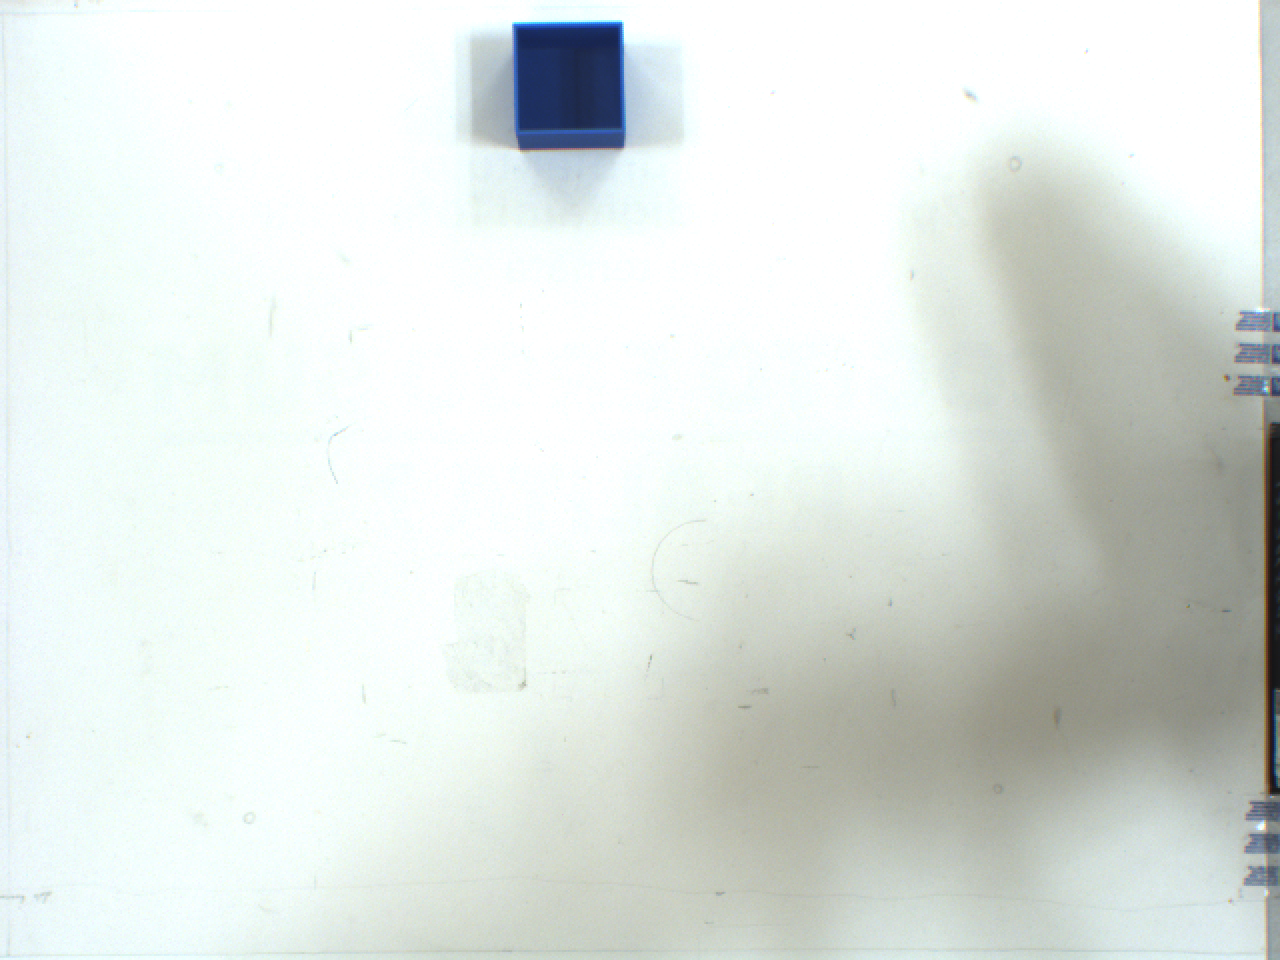
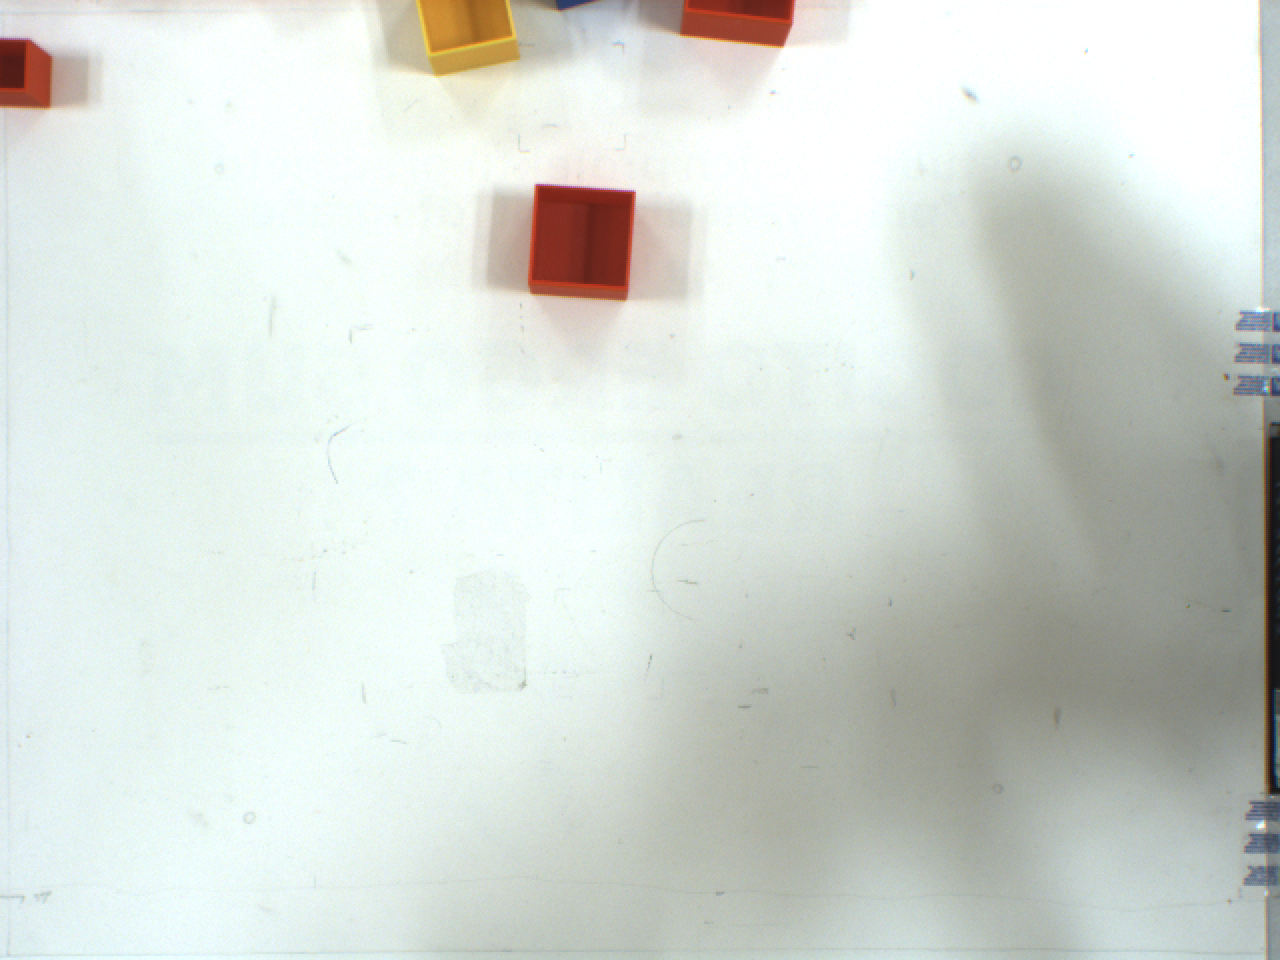
night

diff --git a/src/motion.py b/src/motion.py
@@ -4,7 +4,7 @@ from .objects import CubePosition
 from .robCRSgripper import robCRSgripper
 from .interpolation import interpolate_poly, interpolate_p_spline, interpolate_b_spline
 
-GRIP = 1
+GRIP = 0.5
 RELEASE = -1
 
 
@@ -29,7 +29,7 @@ def move_spline(trajectory, commander, spline, order):
         commander.splinemv(spline_params[i], order=order)
     commander.wait_ready(sync=True)
 
-def move(commander, x0, x1, step=5):
+def move(commander, x0, x1, step=3):
     rng = int(np.linalg.norm(np.array(x0) - np.array(x1)) / step)
     normal = (np.array(x1) - np.array(x0)) / np.linalg.norm(np.array(x0) - np.array(x1))
     x = x0
@@ -40,69 +40,52 @@ def move(commander, x0, x1, step=5):
         sol.append(prev_x)
 
     sol = np.array(sol)
-    move_spline(sol, commander, 'poly', 2)
+    move_spline(sol, commander, 'poly', 3)
 
 
-def move_cube_calib(commander, x0: CubePosition, x1: CubePosition):
+def move_cube(commander, p0: CubePosition, p1: CubePosition, config: dict, center_dest: bool = True):
+    p = config['base_position']
+    off_screen_position = [p['x'], p['y'], p['z'], 0, p['angle'], 0]
+
+    if center_dest:
+        center_cube(commander, p1)
+    center_cube(commander, p0)
     
-    move(commander, x0.operational_level(), x0.cube_level())
-    
-    robCRSgripper(commander, GRIP)
-    commander.wait_ready()
-
-    move(commander, x0.cube_level(), x0.transport_level())
-    move(commander, x0.transport_level(), x1.transport_level())
-    move(commander, x1.transport_level(), x1.release_level())
-
-    # commander.wait_ready()
-    robCRSgripper(commander, RELEASE)
-    commander.wait_ready()
-    
-    move(commander, x1.release_level(), x1.operational_level())
-    move(commander, x1.operational_level(), x1.off_screen_position())
-
-def move_cube(commander, x0: CubePosition, x1: CubePosition, go_off_screen: bool = True):
-        
-    center_cube(commander, x1)
-    center_cube(commander, x0)
-    
-    move(commander, x0.operational_level(), x0.cube_level())
+    move(commander, p0.operational_level(), p0.cube_level())
     
     robCRSgripper(commander, GRIP)
-    commander.wait_ready()
+    commander.wait_gripper_ready()
 
-    move(commander, x0.cube_level(), x0.transport_level())
-    move(commander, x0.transport_level(), x1.transport_level())
-    move(commander, x1.transport_level(), x1.release_level())
+    move(commander, p0.cube_level(), p0.transport_level())
+    move(commander, p0.transport_level(), p1.transport_level())
+    move(commander, p1.transport_level(), p1.cube_level())
 
-    # commander.wait_ready()
     robCRSgripper(commander, RELEASE)
-    commander.wait_ready()
+    commander.wait_gripper_ready()
     
-    move(commander, x1.release_level(), x1.operational_level())
-
-    if go_off_screen:
-        move(commander, x1.operational_level(), x1.off_screen_position())
+    move(commander, p1.cube_level(), p1.operational_level())
+    move(commander, p1.operational_level(), off_screen_position)
     
 
 def center_cube(commander, x: CubePosition):
     move(commander, x.operational_level(), x.cube_level())
 
     robCRSgripper(commander, GRIP)
-    commander.wait_ready()
+    commander.wait_gripper_ready()
 
     robCRSgripper(commander, RELEASE)
-    commander.wait_ready()
+    
+    commander.wait_gripper_ready()
 
     move(commander, x.cube_level(), x.operational_level())
     move(commander, x.operational_level(), x.operational_level(rotated=True))
     move(commander, x.operational_level(rotated=True), x.cube_level(rotated=True))
 
     robCRSgripper(commander, GRIP)
-    commander.wait_ready()
+    commander.wait_gripper_ready()
 
     robCRSgripper(commander, RELEASE)
-    commander.wait_ready()
+    commander.wait_gripper_ready()
 
     move(commander, x.cube_level(rotated=True), x.operational_level(rotated=True))
 

diff --git a/main.py b/main.py
@@ -6,12 +6,21 @@ import cv2 as cv
 import PyCapture2
 import numpy as np
 
-from src import calibrate, robCRS97, Commander, set_up_camera, robCRSgripper
+from src import calibrate, robCRS97, Commander, set_up_camera, robCRSgripper, move_cube, CubePosition, capture_images, detect_squares, move
+
+def convert_coordinates(x: int, y: int) -> np.ndarray:
+    v = np.array([[x], [y]])
+    calib_cfg = yaml.safe_load(open('conf/calibration.yaml', 'r'))
+    A = np.array(calib_cfg['matrix'])
+    b = np.array(calib_cfg['vector'])[..., np.newaxis]
+    return A@v + b
+
 
 def main():
     calib_cfg = yaml.safe_load(open('conf/calibration.yaml', 'r'))
     camera_cfg = yaml.safe_load(open('conf/camera.yaml', 'r'))
     detection_cfg = yaml.safe_load(open('conf/detection.yaml', 'r'))
+    motion_cfg= yaml.safe_load(open('conf/motion.yaml', 'r'))
 
     robot = robCRS97()
     tty_dev = '/dev/ttyUSB0'
@@ -20,12 +29,56 @@ def main():
 
     camera = set_up_camera(camera_cfg)
 
-    # commander.init(reg_type=None, max_speed=None, hard_home=True)
-    # robCRSgripper(commander, -1)
-    # commander.wait_ready()
+    commander.init(reg_type=None, max_speed=None, hard_home=False)
+    robCRSgripper(commander, -1)
+    commander.wait_ready()
 
+    # calibrate(commander, camera, calib_cfg, camera_cfg, detection_cfg)
+    p0 = CubePosition(500, -290, 0)
+    p1 = CubePosition(500, 0, 0)
+    move_cube(commander, p0, p1, motion_cfg, center_dest=False)
+    # move(commander, [300, -190, 300, 0, 90, 0], [300, 190, 300, 0, 90, 0])
 
-    calibrate(commander, camera, calib_cfg, camera_cfg, detection_cfg)
+    # capture_images(camera, 'camera/images/', camera_cfg)
+    # image_path = os.path.join('camera/images/', 'red.png')
+    # image = cv.imread(image_path)
+    # squares = detect_squares('camera/images/', image, detection_cfg)
+    # print(squares)
+
+    # bigger_square, middle_square, smaller_square = sorted(squares, reverse=True)
+
+    # s = convert_coordinates(smaller_square.x, smaller_square.y)
+    # m = convert_coordinates(middle_square.x, middle_square.y)
+    # b = convert_coordinates(bigger_square.x, bigger_square.y)
+
+    # ps = CubePosition(s[0], s[1], smaller_square.angle)
+    # pm = CubePosition(m[0], m[1], middle_square.angle)
+    # pb = CubePosition(b[0], b[1], bigger_square.angle)
+    
+    # move_cube(commander, pm, pb)
+
+    # capture_images(camera, 'camera/images/', camera_cfg)
+    # image_path = os.path.join('camera/images/', 'red.png')
+    # image = cv.imread(image_path)
+    # squares = detect_squares('camera/images/', image, detection_cfg)
+
+    # middle_square, smaller_square = sorted(squares, reverse=True)
+
+    # s = convert_coordinates(smaller_square.x, smaller_square.y)
+    # m = convert_coordinates(middle_square.x, middle_square.y)
+
+    # ps = CubePosition(s[0], s[1], smaller_square.angle)
+    # pm = CubePosition(m[0], m[1], middle_square.angle)
+
+    # move_cube(commander, ps, pm)
+
+    # print(f'CAMERA - x: {squares[0].x}, y: {squares[0].y}')
+
+    # y = convert_coordinates(squares[0].x, squares[0].y)
+    # print(y)
+    # print(f'GLOBAL - x: {y[0]}, y: {y[1]}')
+    
+    
 
 if __name__ == '__main__':
     main()

diff --git a/src/objects.py b/src/objects.py
@@ -31,6 +31,7 @@ class ApproxPolygon:
 
 class Square:
     def __init__(self, contour: np.ndarray, color=None):
+        self.id = 0
         self.color = color
         self.symbol = None
         self.color_name = None
@@ -42,7 +43,7 @@ class Square:
 
         self.x = int(x)
         self.y = int(y)
-        self.area = w * h
+        self.area = cv.contourArea(contour)
         self.angle = -angle
         self.width = int(w)
         self.height = int(h)
@@ -52,6 +53,14 @@ class Square:
     def is_inside(self, point: tuple):
         point = tuple(map(float, point))
         return cv.pointPolygonTest(self.corners, point, False) > 0
+
+    def create_cube(self, A: list, b: list):
+        camera_coords = np.array([[self.x], [self.y]])
+        A = np.array(A)
+        b = np.array(b)[..., np.newaxis]
+        global_coords = A@camera_coords + b
+        return Cube(global_coords[0], global_coords[1], self.angle, self.area)
+
 
     def __lt__(self, other):
         return self.area < other.area
@@ -64,6 +73,23 @@ class Square:
 
     def __ne__(self, other):
         return self.area != other.area
+
+    def __repr__(self):
+        return self.__str__()
+
+    def __str__(self):
+        out = f' SQUARE {self.id}: {self.color_name}\n\
+                \tCenter: {(self.x, self.y)}\n\
+                \tArea: {self.area}\n\
+                \tAngle: {self.angle}\n\
+                \tWidth and height: {(self.width, self.height)}\n\n'
+        return out
+    
+    
+
+class Cube:
+    def __init__(self, x: int, y: int, angle: int, size):
+        pass
 
 
 class CubePosition:
@@ -78,7 +104,7 @@ class CubePosition:
 
     def release_level(self, rotated: bool = False):
         r = 1 if rotated else 0
-        return [self.x, self.y, 50, self.angle + r*90, 90, 0]
+        return [self.x, self.y, 80, self.angle + r*90, 90, 0]
 
     def operational_level(self, rotated: bool = False):
         r = 1 if rotated else 0

diff --git a/src/calibration.py b/src/calibration.py
@@ -6,7 +6,7 @@ from scipy.optimize import least_squares
 
 from .image import capture_images
 from .detection import detect_squares
-from .motion import center_cube, move_cube_calib
+from .motion import center_cube
 from .objects import CubePosition, Square
 
 DIRECTORY = 'camera/images/'
@@ -38,10 +38,14 @@ def calibrate(commander, camera, calib_config: dict, camera_config: dict, detect
         squares = detect_squares(DIRECTORY, image, detection_cfg)
 
         if len(squares) == 1:
-            print('Detection ok')
+            print('Detection was succesfull')
             camera_coords.append([squares[0].x, squares[0].y])
         else:
             print('fuck')
+
+        cv.drawContours(image, [squares[0].corners], 0, squares[0].color[::-1], 3)
+
+        cv.imwrite('output.png', image)
     
     camera_coords = np.array(camera_coords).T
 

diff --git a/src/detection.py b/src/detection.py
@@ -15,11 +15,11 @@ MIN_AREA = 1000
 MAX_AREA = 100000
 
 MAX_COS = 0.05
-MAX_LEN_RATIO = 1.08
+MAX_LEN_RATIO = 1.04
 
 MIN_THRESHOLD = 0
 MAX_THRESHOLD = 255
-STEP = 5
+STEP = 2
 
 DP_EPSILON = 0.05
 
@@ -111,6 +111,8 @@ def assign_color(squares: list, hsv_image: np.ndarray, config: dict) -> list:
 
         square.color = config['colors'][np.argmax(colors)]['rgb']
         square.symbol = config['colors'][np.argmax(colors)]['symbol']
+        square.color_name = config['colors'][np.argmax(colors)]['name']
+        square.id = (np.abs(np.array(config['ids']) - square.area)).argmin()
 
     return squares
 

diff --git a/playground.py b/playground.py
@@ -1,6 +1,14 @@
 import numpy as np
+from scipy.optimize import least_squares
 
-arr = np.array([1, 1, 2, 3, 1, 0, 1])
+x = np.array([[646, 523], [172, 529], [333, 525], [494, 522]])
+y = np.array([87, 83.5, 83.5, 81.5])
+s = np.array([[640], [480]])
 
-for u in np.unique(arr):
-    print(np.where(arr == u))
+def optimized_func(a, x, y, s):
+    d = np.linalg.norm(s - x.T, axis=0)
+    return a[0]*a[0]*d + a[1]*d + a[2] - y
+
+x0 = [1, 1, 1]
+x = least_squares(optimized_func, x0, args=(x, y, s)).x
+print(x)

diff --git a/src/image.py b/src/image.py
@@ -7,13 +7,6 @@ import PyCapture2
 import numpy as np
 
 
-def convert_coordinates(x: np.ndarray) -> np.ndarray:
-    calib_cfg = yaml.safe_load(open('conf/calibration.yaml', 'r'))
-    A = np.array(calib_cfg['matrix'])
-    b = np.array(calib_cfg['vector'])[..., np.newaxis]
-    return A@x + b
-
-
 def set_up_camera(config: dict):
     # Load the configuration file
     # camera_cfg = yaml.safe_load(open('../conf/camera.yaml', 'r'))

diff --git a/src/__init__.py b/src/__init__.py
@@ -10,4 +10,5 @@ from .calibration import calibrate
 from .detection import detect_squares
 from .image import set_up_camera, capture_images
 from .objects import ApproxPolygon, Square, CubePosition
+from .motion import move_cube, move
 
